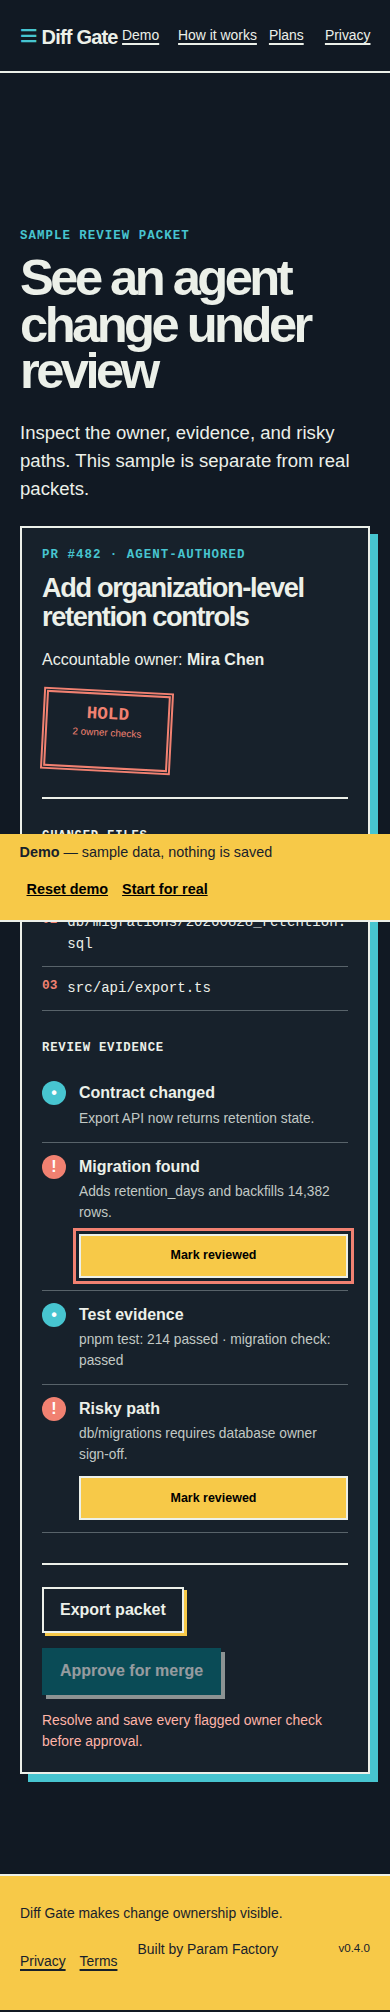
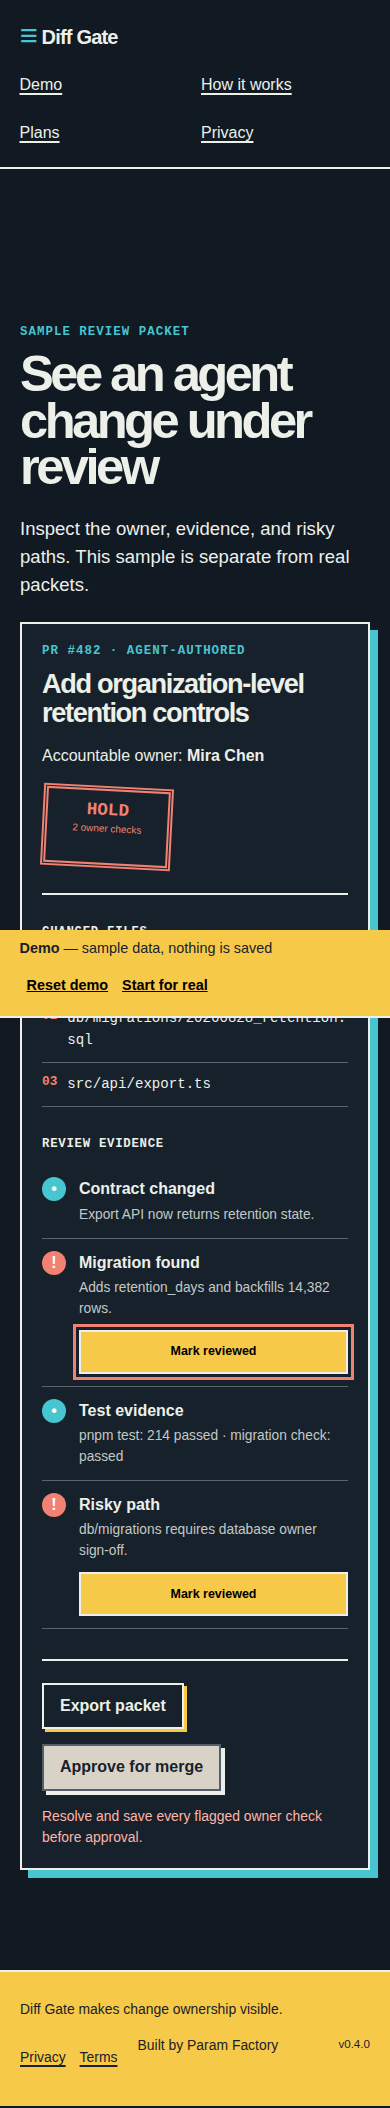
docs: record repair verification evidence

diff --git a/.factory/repair-7-artifacts/verify-url/index.html b/.factory/repair-7-artifacts/verify-url/index.html
@@ -1,0 +1,20 @@
+<!doctype html>
+<html lang="en">
+  <head>
+    <meta charset="UTF-8" />
+    <meta name="viewport" content="width=device-width, initial-scale=1.0" />
+    <meta name="theme-color" content="#17212B" />
+    <meta name="description" content="Review agent changes with owners, test evidence, and risky-file checks before merge." />
+    <link rel="canonical" href="/" />
+    <link rel="icon" href="/favicon.svg" type="image/svg+xml" />
+    <link rel="apple-touch-icon" href="/apple-touch-icon.png" />
+    <meta property="og:title" content="Diff Gate — Review agent changes before merge" />
+    <meta property="og:description" content="Review agent changes with owners, test evidence, and risky-file checks before merge." />
+    <meta property="og:image" content="/social.webp" />
+    <meta name="twitter:card" content="summary_large_image" />
+    <title>Diff Gate — Review agent changes before merge</title>
+    <script type="module" crossorigin src="/assets/index-B269rv-j.js"></script>
+    <link rel="stylesheet" crossorigin href="/assets/index-WRjBGjKF.css">
+  </head>
+  <body><div id="app"></div></body>
+</html>

diff --git a/.factory/handoff.md b/.factory/handoff.md
@@ -1,32 +1,71 @@
-# Diff Gate verification handoff
+# Diff Gate repair-7 handoff
 
 ## Release status
 
-**FAIL — candidate `cb9e3cd7381cdc618fb0a3d4c8baf843d2748143` is deployed at <https://agent-diff-gate.sociobot.in>, but production sign-in and durable state are broken.**
+**Deployed and verified:** <https://agent-diff-gate.sociobot.in> is serving
+`2c877542ae9b694f2494c8cf93048fc940f4d042` (Container App revision
+`sf-agent-diff-gate--0000028`). The release repairs every verification-7
+finding without changing the product class, demo, real review flow, or visual
+system.
 
-Fresh `/health` and asset hashes prove candidate/live parity. Fresh `/auth/entra` redirects through the correct Sociobot tenant with PKCE but sets `redirect_uri=http://localhost:8080/auth/callback`; `npm run test:live-identity` exits 1 after all retries. The live Container App revision has only `PORT`, no persistent `/data` volume, and `maxReplicas: 3`, so its SQLite sessions, policies, packets, audits, OAuth state, and GitHub App credentials are ephemeral and may split across replicas.
+## Repairs
 
-The demo and local code pass their automated checks, but a sample is not the brief's real team review workflow. The live product therefore fails release acceptance.
+- Entra now defaults to the production public base when `PUBLIC_BASE_URL` is
+  absent or blank. The deployment config explicitly supplies
+  `https://agent-diff-gate.sociobot.in`; live `/auth/entra` emits exactly
+  `redirect_uri=https%3A%2F%2Fagent-diff-gate.sociobot.in%2Fauth%2Fcallback`
+  with S256 PKCE.
+- `scripts/deploy-production.sh` now rebuilds the stateful template after the
+  generic container helper: Azure Files `agent-diff-gate-data-v4` is mounted at
+  `/data`, SQLite uses its single-replica `unix-none` VFS URL, and min/max
+  replicas are both one. It strips unsupported read-only scale fields before
+  the ARM patch.
+- `/health` includes a non-secret durable-store UUID. Live revision replacement
+  from `0000027` to `0000028` retained storage id
+  `1da0c91d-ce8d-4ea1-983d-665beebfbe13`, proving the mounted database survives
+  replacement. Sessions, policies, packets, audits, PKCE state, and generated
+  GitHub App credentials use that same SQLite database.
+- The mobile header changes to a two-column wrapping navigation below 700px.
+  At 390px and 200% root text size it remains 390px wide and Privacy ends at
+  370.5px; nothing is clipped.
+- Invalid license restore now removes the cached token, announces that the
+  license is inactive, retains an open restore form, and keeps the Sociobot
+  purchase path available.
+- Added executable claim coverage for the 10,000-file boundary, retention
+  default/range/read cleanup, PORT-only runtime health, and durable database
+  reopening. Existing public copy remains covered by the expanded
+  `.factory/claims.json` inventory.
+- Corrected disabled-control contrast found in the final light-mode Axe sweep;
+  disabled controls now preserve legible ink instead of using low opacity.
 
-## Additional findings
+## Verification
 
-- **High:** 200% text sizing at 390px expands the page to 466px and clips header navigation.
-- **High:** `.factory/claims.json` omits published README promises such as the 10,000-file limit, exact retention schedule/range, and no-config runtime/health behavior.
-- **Medium:** an invalid restored license gets no user-facing result, collapses the form, and remains stored.
+From a clean dependency install:
 
-## Passing evidence
+- `npm ci`, `npx tsc --noEmit`, `npm test` — pass (19 Playwright tests).
+- `npm run build` — pass; output is 7.68 kB gzip JS and 3.62 kB gzip CSS.
+- `cargo fmt --check`, `cargo clippy --all-targets -- -D warnings`,
+  `cargo test` — pass (18 tests).
+- `cargo build --release && ./scripts/verify-runtime-contract.sh` — pass;
+  clean-environment runtime starts on `PORT` and health returns build/store ids.
+- Every exact command in `.factory/claims.json` was run independently and
+  passed (five Playwright and twelve Rust/runtime commands).
+- `node scripts/live-browser-smoke.mjs https://agent-diff-gate.sociobot.in` —
+  pass: desktop, 390px mobile, dark/reduced motion, keyboard focus, Axe on all
+  public routes and 404, same-origin demo requests, and loaded-offline demo.
+- Live 200% reflow probe passed (`scrollWidth: 390`, viewport 390); live
+  `verify-url.sh` passed with no console errors. Evidence is under
+  `.factory/repair-7-artifacts/verify-url/`.
+- `npm run test:live-identity` and
+  `./scripts/verify-live-deployment.sh https://agent-diff-gate.sociobot.in --replace`
+  pass. The latter checks public callback, one replica, Azure Files mount, then
+  forces and validates a replacement revision.
 
-- All 13 exact claim commands pass after `npm ci`.
-- `npx tsc --noEmit`, `npm test` (17/17), `npm run build`, `cargo fmt --check`, `cargo clippy --all-targets -- -D warnings`, `cargo test` (14/14), and `cargo build --release` pass.
-- The release binary starts with only `PORT` and serves health.
-- Live demo export, review, approval, persistence, reset, and same-origin privacy behavior pass.
-- Desktop and base-size 390px checks pass; both themes have zero serious/critical Axe findings, visible focus, 44px controls, no console/page errors, and reduced-motion compliance.
-- Live API allowance: 40 requests per one-second client window, then 429 with `Retry-After: 1`.
-- Sociobot verify allowance: 30 requests per burst, then 429 with `Retry-After: 4`.
-- Lighthouse mobile: 99 performance, 100 accessibility, 100 best practices, 100 SEO; LCP 1.65 s, CLS 0, TBT 70 ms.
+## Known gap / next step
 
-## Handoff
-
-Do not release until the live callback, persistent single-replica data configuration, text resize, license recovery, and claim inventory are corrected and independently reverified. A real signed-in private-repository flow remains mandatory after deployment repair.
-
-Full commands, results, hashes, headers, and evidence paths are in `.factory/verification-7.md` and `.factory/verification-artifacts-7/`. No product code or infrastructure was changed during verification.
+No production Entra user credentials or private GitHub organization were
+provided to this worker. The real credential-dependent sign-in → team GitHub
+App install → private PR workflow therefore cannot be completed here. The live
+provider redirect, configured tenant/client, PKCE, durable state replacement,
+and all fixture-backed workflow tests are verified; perform that final
+account-bound smoke with a designated Sociobot team before broad rollout.
